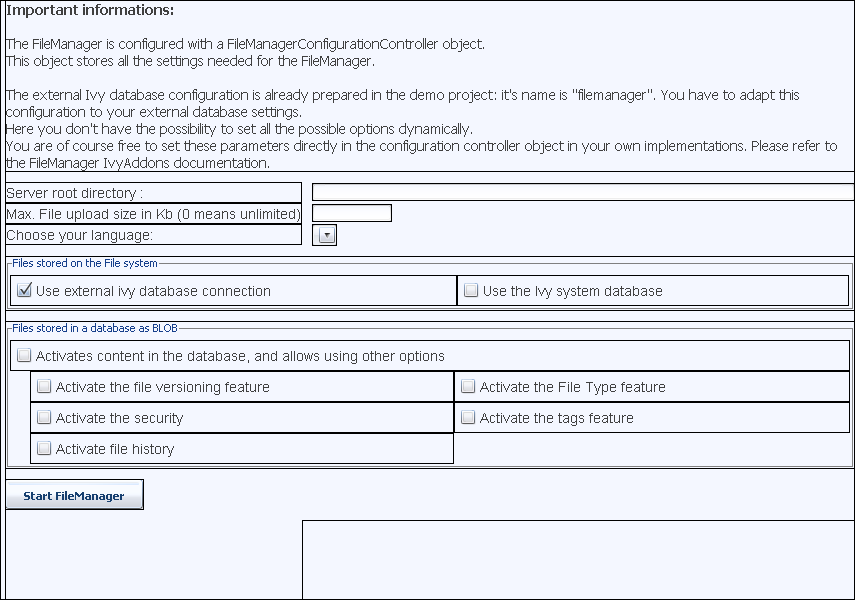
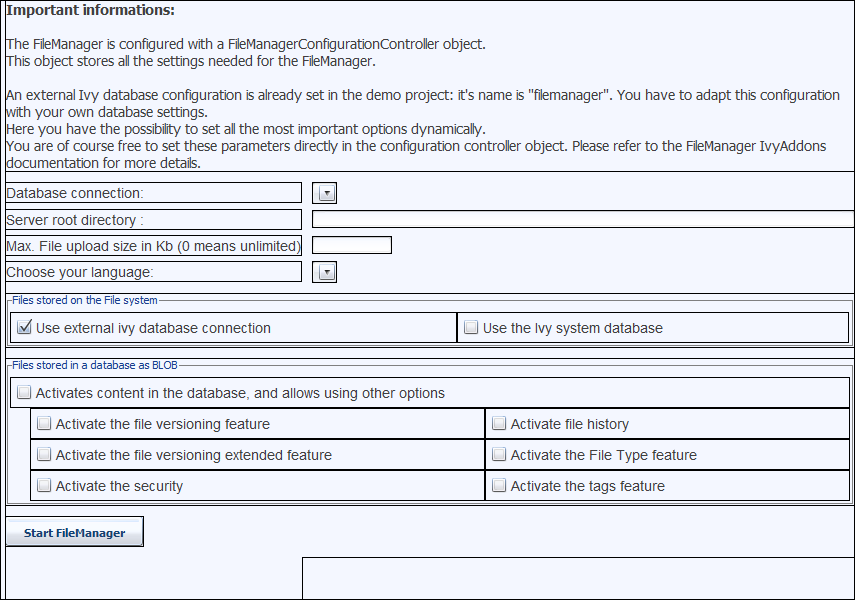
FileManager new file versioning extended demo Reviewed by EC
Former-commit-id: 9f5010335a9f6cc3bf9a154fd850d1f95a9d0ecb

Changed region(s): [[0.0, 0.15, 1.0, 0.93], [0.0, 0.06, 0.5778, 0.12], [0.0, 0.0, 0.2129, 0.03]]

diff --git a/IvyDemos/src_rd/ch/ivyteam/ivy/demo/filemanager/StartFileManager/StartFileManagerPanel.java b/IvyDemos/src_rd/ch/ivyteam/ivy/demo/filemanager/StartFileManager/StartFileManagerPanel.java
@@ -49,6 +49,7 @@ private RLabel languageLabel = null;
 private RComboBox langComboBox = null;
 private RComboBox dbComboBox = null;
 private RLabel dbLabel = null;
+private RCheckBox activateExtendedFVCheckBox = null;
 /**
    * Create a new instance of StartFileManagerPanel
    */
@@ -296,10 +297,11 @@ private RGridBagLayoutPane getStoreInDBGridBagLayoutPane() {
 		storeInDBGridBagLayoutPane.setBorder(BorderFactory.createTitledBorder(BorderFactory.createLineBorder(Color.gray, 1), "Files stored in a database as BLOB", ULCTitledBorder.DEFAULT_JUSTIFICATION, ULCTitledBorder.DEFAULT_POSITION, new Font("Tahoma", Font.PLAIN, 14), new Color(23, 64, 140)));
 		storeInDBGridBagLayoutPane.add(getActivateFilesAsBlobCheckBox(), new com.ulcjava.base.application.GridBagConstraints(0, 0, 2, 1, -1, -1, com.ulcjava.base.application.GridBagConstraints.CENTER, com.ulcjava.base.application.GridBagConstraints.NONE, new com.ulcjava.base.application.util.Insets(0,0,0,0), 0, 0));
 		storeInDBGridBagLayoutPane.add(getActivateFileVersioningCheckBox(), new com.ulcjava.base.application.GridBagConstraints(0, 1, 1, 1, -1, -1, com.ulcjava.base.application.GridBagConstraints.CENTER, com.ulcjava.base.application.GridBagConstraints.NONE, new com.ulcjava.base.application.util.Insets(0,0,0,0), 0, 0));
-		storeInDBGridBagLayoutPane.add(getActivateSecurityCheckBox(), new com.ulcjava.base.application.GridBagConstraints(0, 2, 1, 1, -1, -1, com.ulcjava.base.application.GridBagConstraints.CENTER, com.ulcjava.base.application.GridBagConstraints.NONE, new com.ulcjava.base.application.util.Insets(0,0,0,0), 0, 0));
-		storeInDBGridBagLayoutPane.add(getActivateTypeCheckBox(), new com.ulcjava.base.application.GridBagConstraints(1, 1, 1, 1, -1, -1, com.ulcjava.base.application.GridBagConstraints.CENTER, com.ulcjava.base.application.GridBagConstraints.NONE, new com.ulcjava.base.application.util.Insets(0,0,0,0), 0, 0));
-		storeInDBGridBagLayoutPane.add(getActivateTagsCheckBox(), new com.ulcjava.base.application.GridBagConstraints(1, 2, 1, 1, -1, -1, com.ulcjava.base.application.GridBagConstraints.CENTER, com.ulcjava.base.application.GridBagConstraints.NONE, new com.ulcjava.base.application.util.Insets(0,0,0,0), 0, 0));
-		storeInDBGridBagLayoutPane.add(getActivateHistoryCheckBox(), new com.ulcjava.base.application.GridBagConstraints(0, 3, 1, 1, -1, -1, com.ulcjava.base.application.GridBagConstraints.CENTER, com.ulcjava.base.application.GridBagConstraints.NONE, new com.ulcjava.base.application.util.Insets(0,0,0,0), 0, 0));
+		storeInDBGridBagLayoutPane.add(getActivateSecurityCheckBox(), new com.ulcjava.base.application.GridBagConstraints(0, 3, 1, 1, -1, -1, com.ulcjava.base.application.GridBagConstraints.CENTER, com.ulcjava.base.application.GridBagConstraints.NONE, new com.ulcjava.base.application.util.Insets(0,0,0,0), 0, 0));
+		storeInDBGridBagLayoutPane.add(getActivateTypeCheckBox(), new com.ulcjava.base.application.GridBagConstraints(1, 2, 1, 1, -1, -1, com.ulcjava.base.application.GridBagConstraints.CENTER, com.ulcjava.base.application.GridBagConstraints.NONE, new com.ulcjava.base.application.util.Insets(0,0,0,0), 0, 0));
+		storeInDBGridBagLayoutPane.add(getActivateTagsCheckBox(), new com.ulcjava.base.application.GridBagConstraints(1, 3, 1, 1, -1, -1, com.ulcjava.base.application.GridBagConstraints.CENTER, com.ulcjava.base.application.GridBagConstraints.NONE, new com.ulcjava.base.application.util.Insets(0,0,0,0), 0, 0));
+		storeInDBGridBagLayoutPane.add(getActivateHistoryCheckBox(), new com.ulcjava.base.application.GridBagConstraints(1, 1, 1, 1, -1, -1, com.ulcjava.base.application.GridBagConstraints.CENTER, com.ulcjava.base.application.GridBagConstraints.NONE, new com.ulcjava.base.application.util.Insets(0,0,0,0), 0, 0));
+		storeInDBGridBagLayoutPane.add(getActivateExtendedFVCheckBox(), new com.ulcjava.base.application.GridBagConstraints(0, 2, 1, 1, -1, -1, com.ulcjava.base.application.GridBagConstraints.CENTER, com.ulcjava.base.application.GridBagConstraints.NONE, new com.ulcjava.base.application.util.Insets(0,0,0,0), 0, 0));
 	}
 	return storeInDBGridBagLayoutPane;
 }
@@ -343,7 +345,7 @@ private RCheckBox getActivateHistoryCheckBox() {
 	if (activateHistoryCheckBox == null) {
 		activateHistoryCheckBox = new RCheckBox();
 		activateHistoryCheckBox.setText("Activate file history");
-		activateHistoryCheckBox.setStyleProperties("{/font {/name \"Dialog\"/size \"14\"/style \"PLAIN\"}/fill \"HORIZONTAL\"/insetsLeft \"20\"}");
+		activateHistoryCheckBox.setStyleProperties("{/font {/name \"Dialog\"/size \"14\"/style \"PLAIN\"}/fill \"HORIZONTAL\"}");
 		activateHistoryCheckBox.setName("activateHistoryCheckBox");
 	}
 	return activateHistoryCheckBox;
@@ -407,5 +409,20 @@ private RLabel getDbLabel() {
 		dbLabel.setName("dbLabel");
 	}
 	return dbLabel;
+}
+
+/**
+ * This method initializes activateExtendedFVCheckBox	
+ * 	
+ * @return ch.ivyteam.ivy.richdialog.widgets.components.RCheckBox	
+ */
+private RCheckBox getActivateExtendedFVCheckBox() {
+	if (activateExtendedFVCheckBox == null) {
+		activateExtendedFVCheckBox = new RCheckBox();
+		activateExtendedFVCheckBox.setName("activateExtendedFVCheckBox");
+		activateExtendedFVCheckBox.setStyleProperties("{/font {/name \"Dialog\"/size \"14\"/style \"PLAIN\"}/fill \"HORIZONTAL\"/insetsLeft \"20\"/weightX \"1\"}");
+		activateExtendedFVCheckBox.setText("Activate the file versioning extended feature");
+	}
+	return activateExtendedFVCheckBox;
 }
 }  //  @jve:decl-index=0:visual-constraint="10,10"
